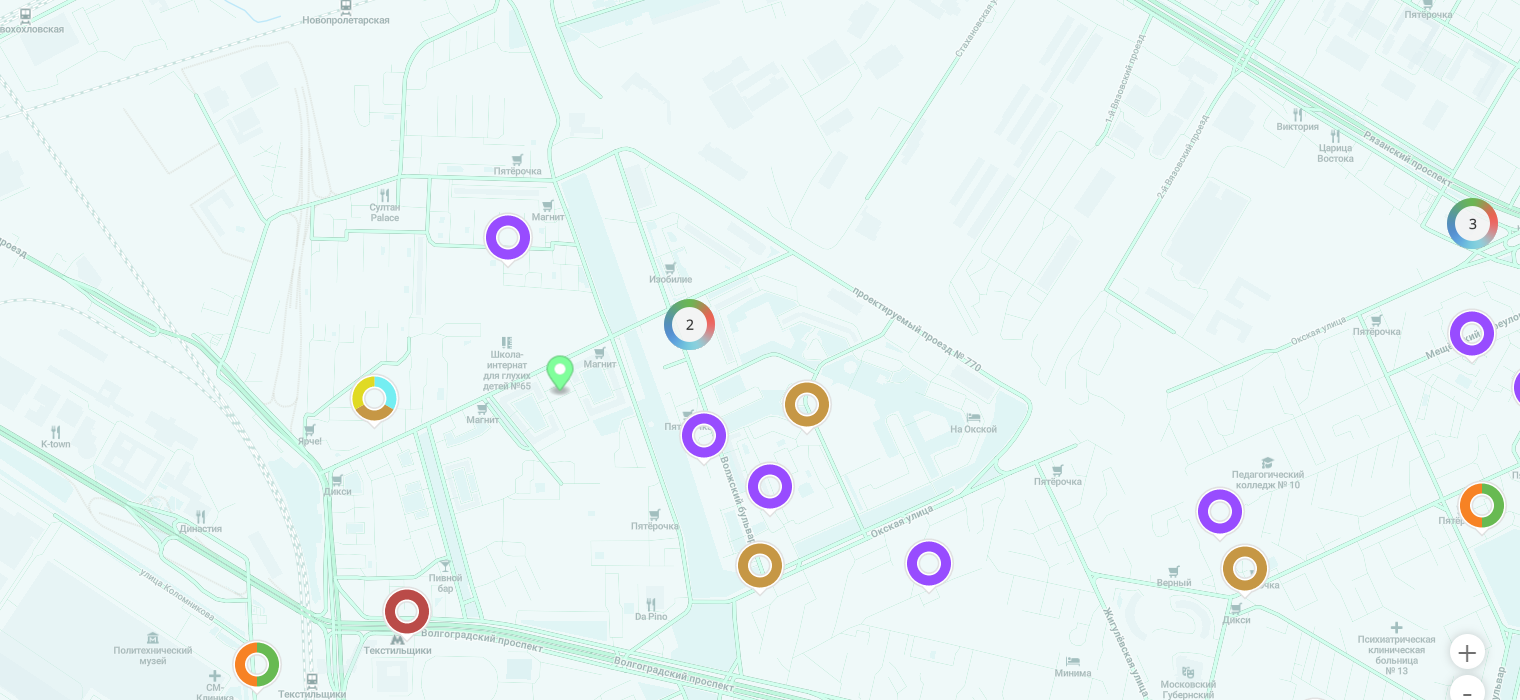
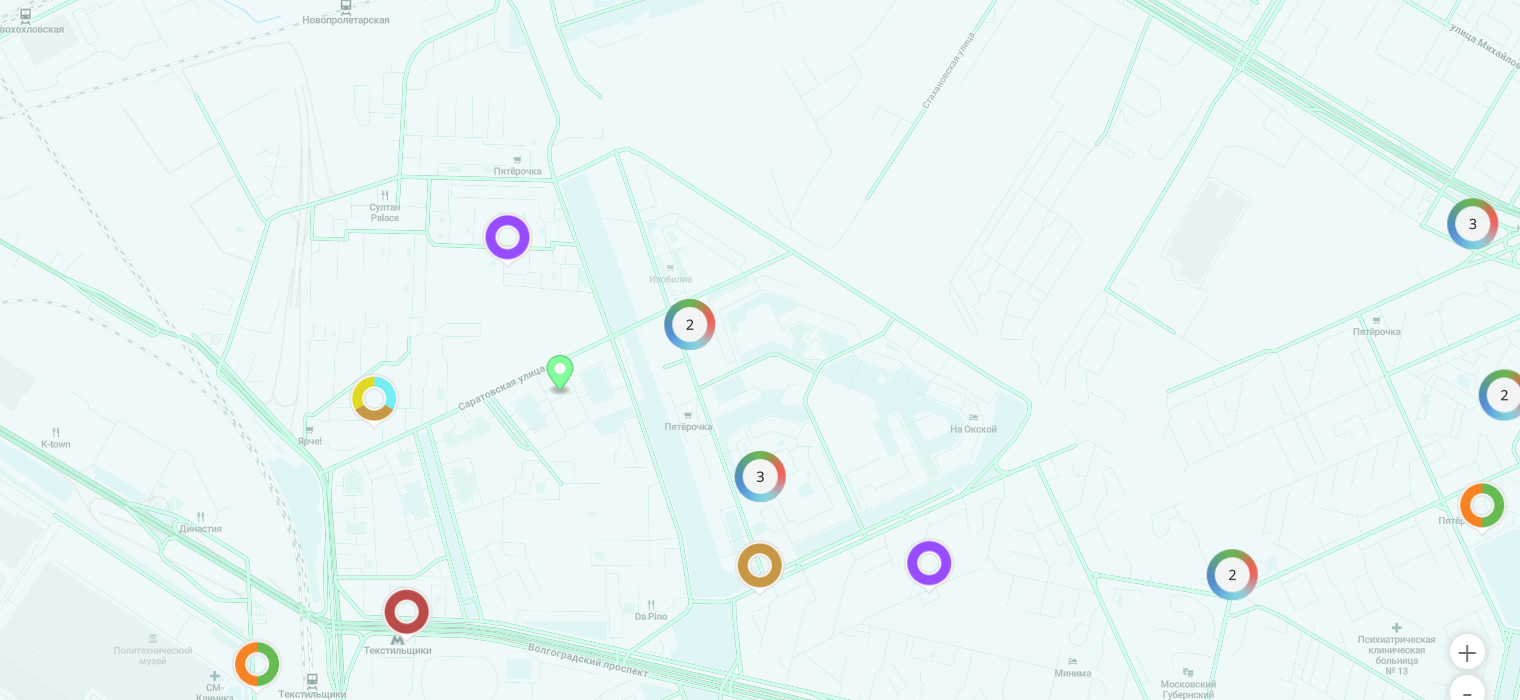
1

diff --git a/main.py b/main.py
@@ -53,53 +53,14 @@ def find(message):
     chrome_options.add_argument("--no-sandbox")
     chrome_options.add_argument("window-size=1920,1080")
     driver = webdriver.Chrome(executable_path=os.environ.get("CHROMEDRIVER_PATH"), chrome_options=chrome_options)
+
     driver.get('https://recyclemap.ru/')
-    time.sleep(1)
-    driver.get_screenshot_as_file("1.png")
-    img = open("1.png", 'rb')
-    bot.send_photo(message.chat.id, img)
-    time.sleep(1)
-    driver.get_screenshot_as_file("1.png")
-    img = open("1.png", 'rb')
-    bot.send_photo(message.chat.id, img)
-    time.sleep(1)
-    driver.get_screenshot_as_file("1.png")
-    img = open("1.png", 'rb')
-    bot.send_photo(message.chat.id, img)
-    time.sleep(1)
-    driver.get_screenshot_as_file("1.png")
-    img = open("1.png", 'rb')
-    bot.send_photo(message.chat.id, img)
-    time.sleep(1)
-    driver.get_screenshot_as_file("1.png")
-    img = open("1.png", 'rb')
-    bot.send_photo(message.chat.id, img)
+    time.sleep(4.5)
     element = driver.find_element(By.CLASS_NAME, "mapboxgl-ctrl-geocoder--input")
     element.send_keys(result)
-    time.sleep(1)
-    driver.get_screenshot_as_file("1.png")
-    img = open("1.png", 'rb')
-    bot.send_photo(message.chat.id, img)
-    time.sleep(1)
-    driver.get_screenshot_as_file("1.png")
-    img = open("1.png", 'rb')
-    bot.send_photo(message.chat.id, img)
-    time.sleep(1)
-    driver.get_screenshot_as_file("1.png")
-    img = open("1.png", 'rb')
-    bot.send_photo(message.chat.id, img)
+    time.sleep(0.5)
     element.send_keys(Keys.ENTER)
-    time.sleep(1)
-    driver.get_screenshot_as_file("1.png")
-    img = open("1.png", 'rb')
-    bot.send_photo(message.chat.id, img)
-    element = driver.find_element(By.CLASS_NAME, "close.grey")
-    element.click()
-    time.sleep(1)
-    driver.get_screenshot_as_file("1.png")
-    img = open("1.png", 'rb')
-    bot.send_photo(message.chat.id, img)
-
+    time.sleep(1.5)
 
     driver.get_screenshot_as_file("1.png")
     driver.close()

diff --git a/1.py b/1.py
@@ -55,13 +55,12 @@ def find(message):
     driver.maximize_window()
 
     driver.get('https://recyclemap.ru/')
-    time.sleep(1)
+    time.sleep(4.5)
     element = driver.find_element(By.CLASS_NAME, "mapboxgl-ctrl-geocoder--input")
     element.send_keys(result)
+    time.sleep(0.5)
     element.send_keys(Keys.ENTER)
-    time.sleep(2)
-    element = driver.find_element(By.CLASS_NAME, "close.grey")
-    element.click()
+    time.sleep(1.5)
 
     driver.get_screenshot_as_file("1.png")
     driver.close()
